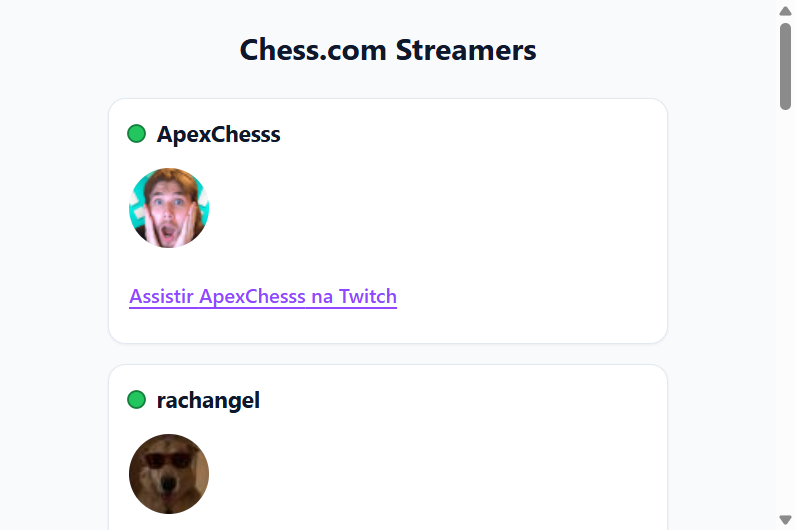
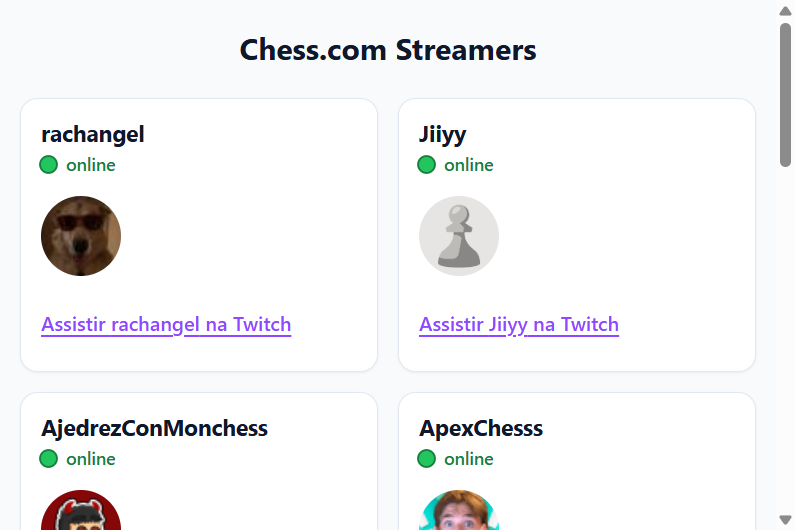
Show online/offline under the username and display two cards per row.

diff --git a/src/index.css b/src/index.css
@@ -23,13 +23,13 @@
   --avatar-size: 64px;
   --status-size: 12px;
   --gap-cards: 16px;
-  --max-width: 480px;
+  --max-width: 720px;
   --font-sans: system-ui, -apple-system, 'Segoe UI', Roboto, sans-serif;
 }
 
 @media (min-width: 640px) {
   :root {
-    --max-width: 560px;
+    --max-width: 880px;
     --padding-card: 24px;
     --padding-page: 24px;
     --avatar-size: 80px;
@@ -97,8 +97,8 @@ body {
 }
 
 .streamer-list {
-  display: flex;
-  flex-direction: column;
+  display: grid;
+  grid-template-columns: 1fr 1fr;
   gap: var(--gap-cards);
   width: 100%;
   margin: 0;
@@ -119,8 +119,28 @@ body {
 
 .streamer-heading {
   display: flex;
+  flex-direction: column;
+  align-items: flex-start;
+  gap: 4px;
+}
+
+.streamer-status-text {
+  display: flex;
   align-items: center;
-  gap: 10px;
+  gap: 8px;
+  margin: 0;
+  font-size: 0.875rem;
+  font-weight: 600;
+  line-height: 1.3;
+  text-transform: lowercase;
+}
+
+.streamer-status-text.is-live {
+  color: var(--color-live-ring);
+}
+
+.streamer-status-text.is-offline {
+  color: var(--color-offline-ring);
 }
 
 .streamer-status {

diff --git a/src/components/StreamerCard.tsx b/src/components/StreamerCard.tsx
@@ -48,17 +48,21 @@ function StreamerAvatar({
 
 export function StreamerCard({ streamer }: StreamerCardProps) {
   const { username, avatar, twitch_url, is_live } = streamer
-  const statusLabel = is_live ? 'Ao vivo' : 'Offline'
+  const statusLabel = is_live ? 'online' : 'offline'
 
   return (
     <article className="streamer-card">
       <div className="streamer-heading">
-        <span
-          className={`streamer-status ${is_live ? 'is-live' : 'is-offline'}`}
-          role="img"
-          aria-label={statusLabel}
-        />
         <h2 className="streamer-username">{username}</h2>
+        <p
+          className={`streamer-status-text ${is_live ? 'is-live' : 'is-offline'}`}
+        >
+          <span
+            className={`streamer-status ${is_live ? 'is-live' : 'is-offline'}`}
+            aria-hidden="true"
+          />
+          {statusLabel}
+        </p>
       </div>
 
       <StreamerAvatar username={username} avatar={avatar} />

diff --git a/README.md b/README.md
@@ -1,6 +1,6 @@
 # Chess.com Streamers
 
-Aplicação frontend que consome a [API pública do Chess.com](https://api.chess.com/pub/streamers) e lista streamers em cards empilhados, com status ao vivo, avatar e link da Twitch.
+Aplicação frontend que consome a [API pública do Chess.com](https://api.chess.com/pub/streamers) e lista streamers em cards, com status online/offline, avatar e link da Twitch.
 
 O projeto demonstra **state**, **effects** e **listas dinâmicas** em React: um único `fetch` no mount, estados de loading/erro e paginação de 10 cards por vez.
 
@@ -46,7 +46,7 @@ Não é necessária autenticação. A aplicação busca a lista uma vez ao monta
 ## Funcionalidades
 
 - Header com o nome **Chess.com Streamers**
-- Cards com bolinha de status (ao vivo / offline), username, avatar e link da Twitch
+- Cards em duas colunas, com status **online** / **offline** abaixo do username, avatar e link da Twitch
 - Estados de **loading** (spinner), **erro** com botão *Tentar novamente* e **sucesso**
 - Paginação *Anteriores* / *Próximos* (10 cards por página)
 - Footer com crédito do desenvolvedor e link do GitHub
